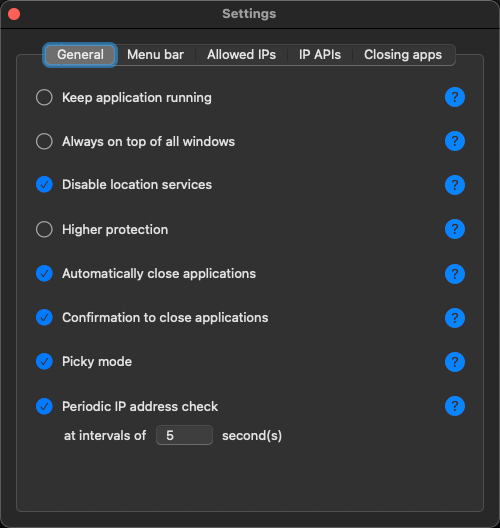
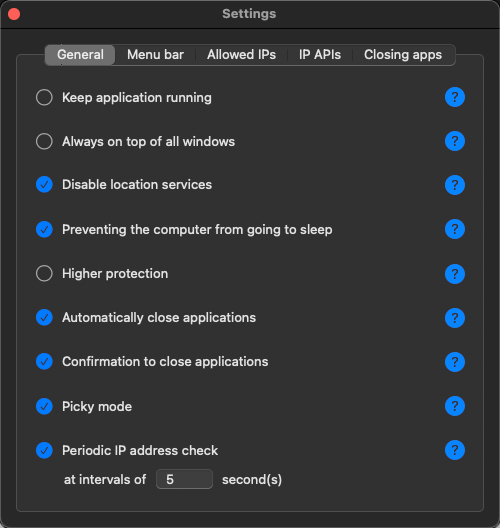
Added preventing the computer from going to sleep feature.

diff --git a/KillSwitch/Infrastructure/Constants.swift b/KillSwitch/Infrastructure/Constants.swift
@@ -32,6 +32,7 @@ struct Constants{
     static let physicalNetworkInterfaceWiFi = "Wi-Fi"
     static let physicalNetworkInterfaceLan = "LAN"
     static let physicalNetworkInterfaceExclusion = "Thunderbolt"
+    static let sleepPreventingReason = "Monitoring sleep preventing"
     
     // MARK: Regexes
     static let regexUrl = /(?<protocol>https?):\/\/(?:(?<username>[^:@\s\/\\]*)(?::(?<password>[^:@\s\/\\]*))?@)?(?<domain>[\w\d]+[\w\d.\-]+[\w\d]+|\[[a-f\d:]+\])(?::(?<port>\d+))?(?:(?<path>\/[^\?#\s]*)(?:\?(?<query>[^\?#\s]*))?(?:#(?<anchor>[^\?#\s]*))?)?/
@@ -130,6 +131,7 @@ struct Constants{
     static let settingsElementKeepAppRunning = "Keep application running"
     static let settingsElementOnTopOfAllWindows = "Always on top of all windows"
     static let settingsElementDisableLocationServices = "Disable location services"
+    static let settingsElementPreventComputerSleep = "Preventing the computer from going to sleep"
     static let settingsElementHigherProtection = "Higher protection"
     static let settingsElementPickyMode = "Picky mode"
     static let settingsElementPeriodicIpCheck = "Periodic IP address check"
@@ -154,6 +156,7 @@ struct Constants{
     static let settingsKeyHiddenMenuBarItems = "hidden-menubar-items"
     static let settingsKeyMenuBarUseThemeColor = "menubar-use-theme-color"
     static let settingsKeyOnTopOfAllWindows = "on-top-of-all-windows"
+    static let settingsKeyPreventComputerSleep = "prevent-computer-sleep"
     
     // MARK: Menubar item keys
     static let mbItemKeyShield = "shiled"
@@ -202,8 +205,8 @@ struct Constants{
     static let dialogBodyLastAllowedIpAddressDeleting = "IP address %1$@ is the last allowed one. The monitoring will be stopped. Are you sure you want to continue?"
     
     // MARK: Log messages
-    static let logMonitoringHasBeenEnabled = "Monitoring has been enabled"
-    static let logMonitoringHasBeenDisabled = "Monitoring has been disabled"
+    static let logMonitoringHasBeenEnabled = "Monitoring enabled"
+    static let logMonitoringHasBeenDisabled = "Monitoring disabled"
     static let logCurrentIp = "Public IP is %1$@"
     static let logCurrentIpHasBeenUpdated = "Public IP has been updated to %1$@"
     static let logCurrentIpHasBeenUpdatedWithNotFromWhitelist = "Public IP address has been changed to %1$@ which is not from allowed IPs, network disabled"
@@ -220,6 +223,8 @@ struct Constants{
     static let logRebooting = "Rebooting..."
     static let logCannotReboot = "Cannot reboot the computer: %1$@"
     static let logProcessTerminated = "%1$@ has been closed"
+    static let logPreventComputerSleepEnabled = "Preventing the computer from going to sleep is enabled"
+    static let logPreventComputerSleepDisabled = "Preventing the computer from going to sleep is disabled"
     
     // MARK: Hints
     static let hintApiIsActive = "API is in use"
@@ -233,6 +238,7 @@ struct Constants{
     static let hintKeepApplicationRunning = "The application will be opened after the system starts or if it was closed."
     static let hintOnTopOfAllWindows = "Put application windows on top of all other windows."
     static let hintToggleLocationServices = "Toggle location services after restart. If the required state is critical, this can be done manually in Settings → Privacy & Security → Location Services without restarting."
+    static let hintPreventComputerSleep = "Preventing the computer from going to sleep when monitoring is enabled."
     static let hintHigherProtection = "Disable the network when monitoring is enabled, if there is no reliable information about the current IP address. Also close all running monitored applications, if any."
     static let hintAutoCloseApps = "Force close applications when monitoring is enabled and current IP address is unsafe. The confirmation dialog option when closing applications will be ignored."
     static let hintCloseApplicationConfirmation = "Confirmation dialog when closing applications. This option is ignored in higher protection mode."

diff --git a/KillSwitch/Views/GeneralSettingsEditView.swift b/KillSwitch/Views/GeneralSettingsEditView.swift
@@ -24,6 +24,7 @@ struct GeneralSettingsEditView: View {
     @State private var showOverKeepApplicationRunning = false
     @State private var showOverOnTopOfAllWindows = false
     @State private var showOverDisableLocationServices = false
+    @State private var showOverPreventComputerSleep = false
     @State private var showOverHigherProtection = false
     @State private var showOverPickyMode = false
     @State private var showOverPeriodicIpCheck = false
@@ -102,6 +103,24 @@ struct GeneralSettingsEditView: View {
                     .popover(isPresented: $showOverDisableLocationServices,
                              arrowEdge: .trailing,
                              content: { renderHelpHint(hint: Constants.hintToggleLocationServices) })
+            }
+            HStack {
+                Toggle(Constants.settingsElementPreventComputerSleep, isOn: Binding(
+                    get: { appState.userData.preventComputerSleep },
+                    set: {
+                        appState.userData.preventComputerSleep = $0
+                    }
+                ))
+                .withSettingToggleStyle()
+                Spacer()
+                Image(systemName: Constants.iconQuestionMark)
+                    .asHelpIcon()
+                    .onHover(perform: { hovering in
+                        showOverPreventComputerSleep = hovering && controlActiveState == .key
+                    })
+                    .popover(isPresented: $showOverPreventComputerSleep,
+                             arrowEdge: .trailing,
+                             content: { renderHelpHint(hint: Constants.hintPreventComputerSleep) })
             }
             HStack {
                 Toggle(Constants.settingsElementHigherProtection, isOn: Binding(

diff --git a/KillSwitch/AppState.swift b/KillSwitch/AppState.swift
@@ -155,6 +155,9 @@ extension AppState {
         var onTopOfAllWindows: Bool = false {
             didSet { writeSetting(newValue: onTopOfAllWindows, key: Constants.settingsKeyOnTopOfAllWindows) }
         }
+        var preventComputerSleep: Bool = false {
+            didSet { writeSetting(newValue: preventComputerSleep, key: Constants.settingsKeyPreventComputerSleep) }
+        }
         
         static func == (lhs: UserData, rhs: UserData) -> Bool {
             let result = lhs.menuBarUseThemeColor == rhs.menuBarUseThemeColor
@@ -170,6 +173,7 @@ extension AppState {
             autoCloseApps = readSetting(key: Constants.settingsKeyAutoCloseApps) ?? false
             appsCloseConfirmation = readSetting(key: Constants.settingsKeyConfirmationApplicationsClose) ?? true
             onTopOfAllWindows = readSetting(key: Constants.settingsKeyOnTopOfAllWindows) ?? false
+            preventComputerSleep = readSetting(key: Constants.settingsKeyPreventComputerSleep) ?? false
             menuBarUseThemeColor = readSetting(key: Constants.settingsKeyMenuBarUseThemeColor) ?? false
             
             let savedAllowedIps: [IpInfo]? = readSettingsArray(key: Constants.settingsKeyIps)

diff --git a/KillSwitch/Services/MonitoringService.swift b/KillSwitch/Services/MonitoringService.swift
@@ -13,6 +13,7 @@ class MonitoringService: ServiceBase {
     private let addressesService = IpService.shared
     private let networkService = NetworkService.shared
     private let processesService = ProcessesService.shared
+    private let computerService = ComputerService.shared
     
     private var currentTimer: Timer? = nil
     private var monitoringTime: Int = 0
@@ -31,6 +32,8 @@ class MonitoringService: ServiceBase {
         monitoringTime = 0
         
         Log.write(message: Constants.logMonitoringHasBeenEnabled)
+        
+        computerService.startSleepPreventing()
         
         currentTimer = Timer.scheduledTimer(withTimeInterval: TimeInterval(Constants.defaultMonitoringInterval), repeats: true) { 
             timer in
@@ -63,6 +66,9 @@ class MonitoringService: ServiceBase {
     func stopMonitoring() {
         updateStatus(isMonitoringEnabled: false)
         currentTimer?.invalidate()
+        
+        computerService.stopSleepPreventing()
+        
         Log.write(message: Constants.logMonitoringHasBeenDisabled, type: LogEntryType.warning)
     }
     

diff --git a/KillSwitch/Services/ComputerService.swift b/KillSwitch/Services/ComputerService.swift
@@ -10,6 +10,27 @@ import Foundation
 class ComputerService : ServiceBase, ShellAccessible {
     static let shared = ComputerService()
     
+    private var activity: NSObjectProtocol? = nil
+    
+    func startSleepPreventing() {
+        guard appState.userData.preventComputerSleep else { return }
+        
+        activity = Foundation.ProcessInfo.processInfo.beginActivity(
+            options: [Foundation.ProcessInfo.ActivityOptions.idleDisplaySleepDisabled,
+                      Foundation.ProcessInfo.ActivityOptions.idleSystemSleepDisabled],
+            reason: Constants.sleepPreventingReason)
+        
+        Log.write(message: Constants.logPreventComputerSleepEnabled)
+    }
+    
+    func stopSleepPreventing() {
+        guard activity != nil else { return }
+        
+        Foundation.ProcessInfo.processInfo.endActivity(activity!)
+        
+        Log.write(message: Constants.logPreventComputerSleepDisabled)
+    }
+    
     func reboot(){
         do {
             try rootShell(command: Constants.shCommandReboot)

diff --git a/KillSwitch/Views/MenuBarStatusView.swift b/KillSwitch/Views/MenuBarStatusView.swift
@@ -5,7 +5,6 @@
 //  Created by UglyGeorge on 06.06.2024.
 //
 
-import Foundation
 import SwiftUI
 
 struct MenuBarStatusView : MenuBarItemsContainerView {
